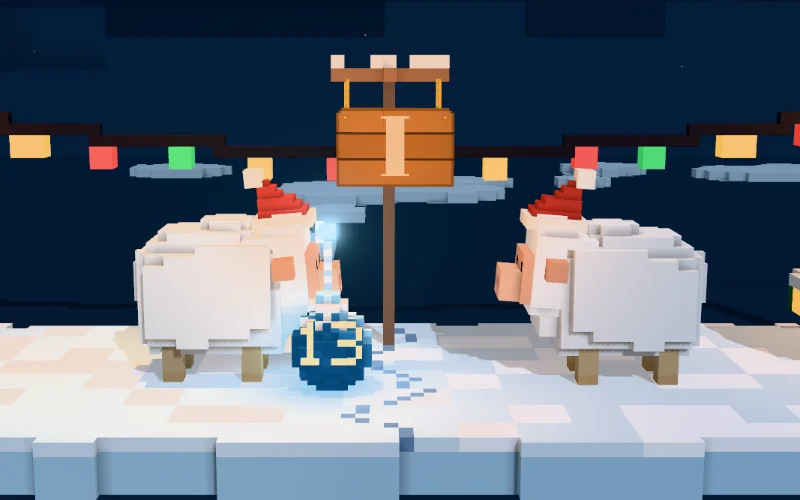
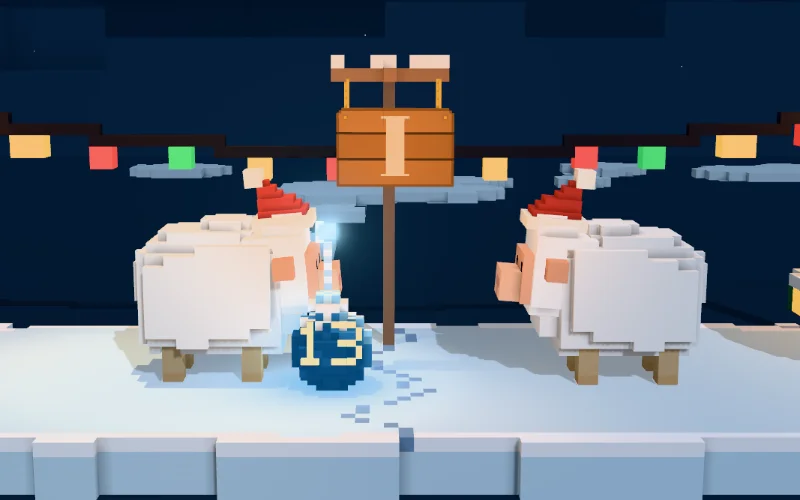
Results card fits a phone; the practice play card baked again
- On a phone the results card's two number tiles stand side by side (one a row pushed Share and Back to the farm
  out of sight), and its buttons keep their words on one line.
- public/play/ranked.webp re-taken by its recipe: the practice ice changed colour.

Checks: tsc clean; 1,851 tests passed, 86 skipped; build passes; size 1.27 kB of headroom; bakeStamp 47 fresh;
check.ts connect and wendigo PASS (pins as they were).

Claude-Session: https://claude.ai/code/session_011o9Mj2AM167Xh2M6L4JoHP

diff --git a/src/skin/styles/skin.css b/src/skin/styles/skin.css
@@ -1061,6 +1061,7 @@ button.sk-plate:focus-visible { outline: 3px solid var(--amber); outline-offset:
 .sk-final-stat span { font: 400 14px/1.1 var(--skin-font-hand); color: rgba(255, 255, 255, 0.72); }
 .sk-final-stat[data-beat] b { color: #F4D27A; }
 .sk-final-actions { display: flex; flex-wrap: wrap; gap: 8px; }
+.sk-final-actions > * { white-space: nowrap; } /* "Back to the farm" broke onto two lines on a phone */
 .sk-final-show {
   position: fixed; z-index: 45; right: max(16px, env(safe-area-inset-right, 0px)); bottom: max(16px, env(safe-area-inset-bottom, 0px)); padding: 10px 16px;
   border: 0; border-radius: 4px; background: rgba(14, 10, 8, 0.66); color: #fff; font: 700 15px/1 var(--skin-font-body); cursor: pointer; backdrop-filter: blur(6px);
@@ -1069,7 +1070,7 @@ button.sk-plate:focus-visible { outline: 3px solid var(--amber); outline-offset:
   .sk-final-wrap { align-items: flex-end; justify-content: center; padding: 10px; }
   .sk-final { max-height: 52vh; padding: 16px 16px 14px; gap: 10px; }
   .sk-final-rows { display: none; } /* the podium already shows every place on a phone */
-  .sk-final-stats { grid-template-columns: 1fr; }
+  .sk-final-stats { grid-template-columns: 1fr 1fr; } /* side by side: one a row pushed the buttons out of sight */
   .sk-final-title { font-size: 21px; }
   .sk-pod-name { font-size: 13px; padding: 4px 9px; }
 }
